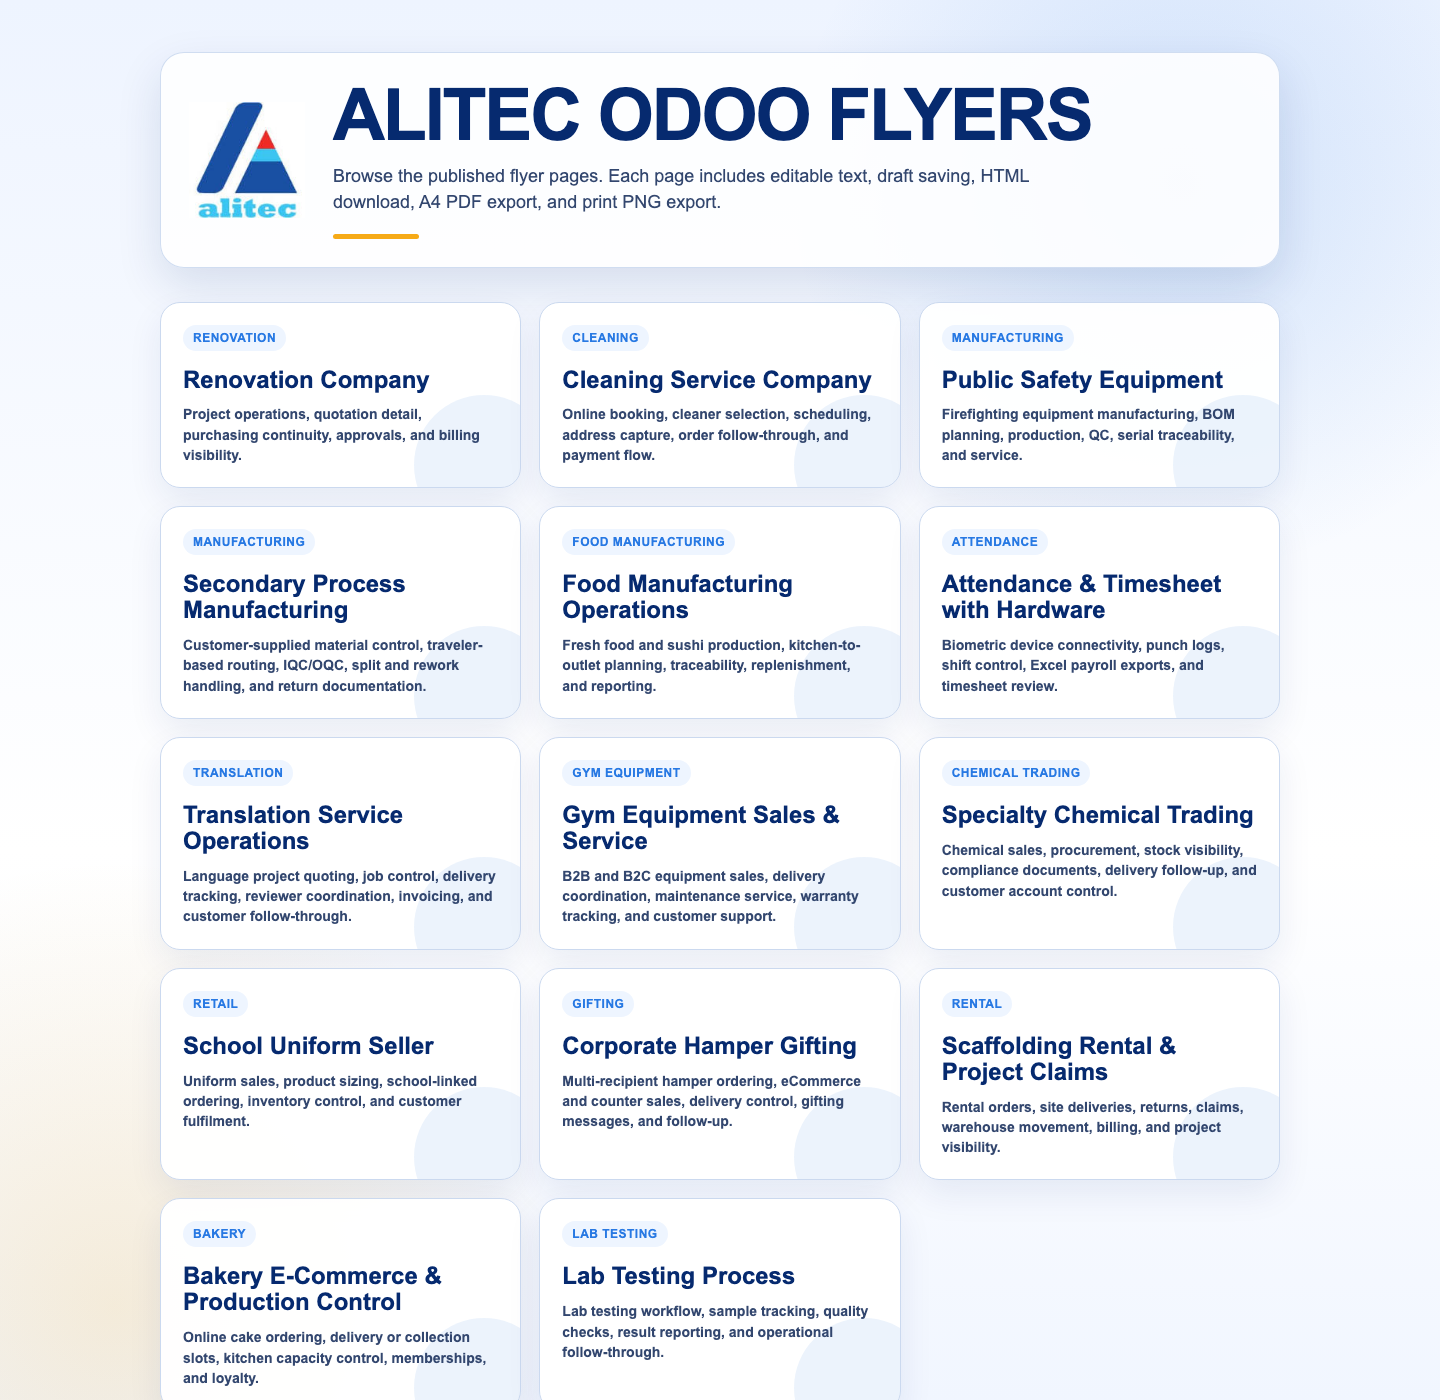
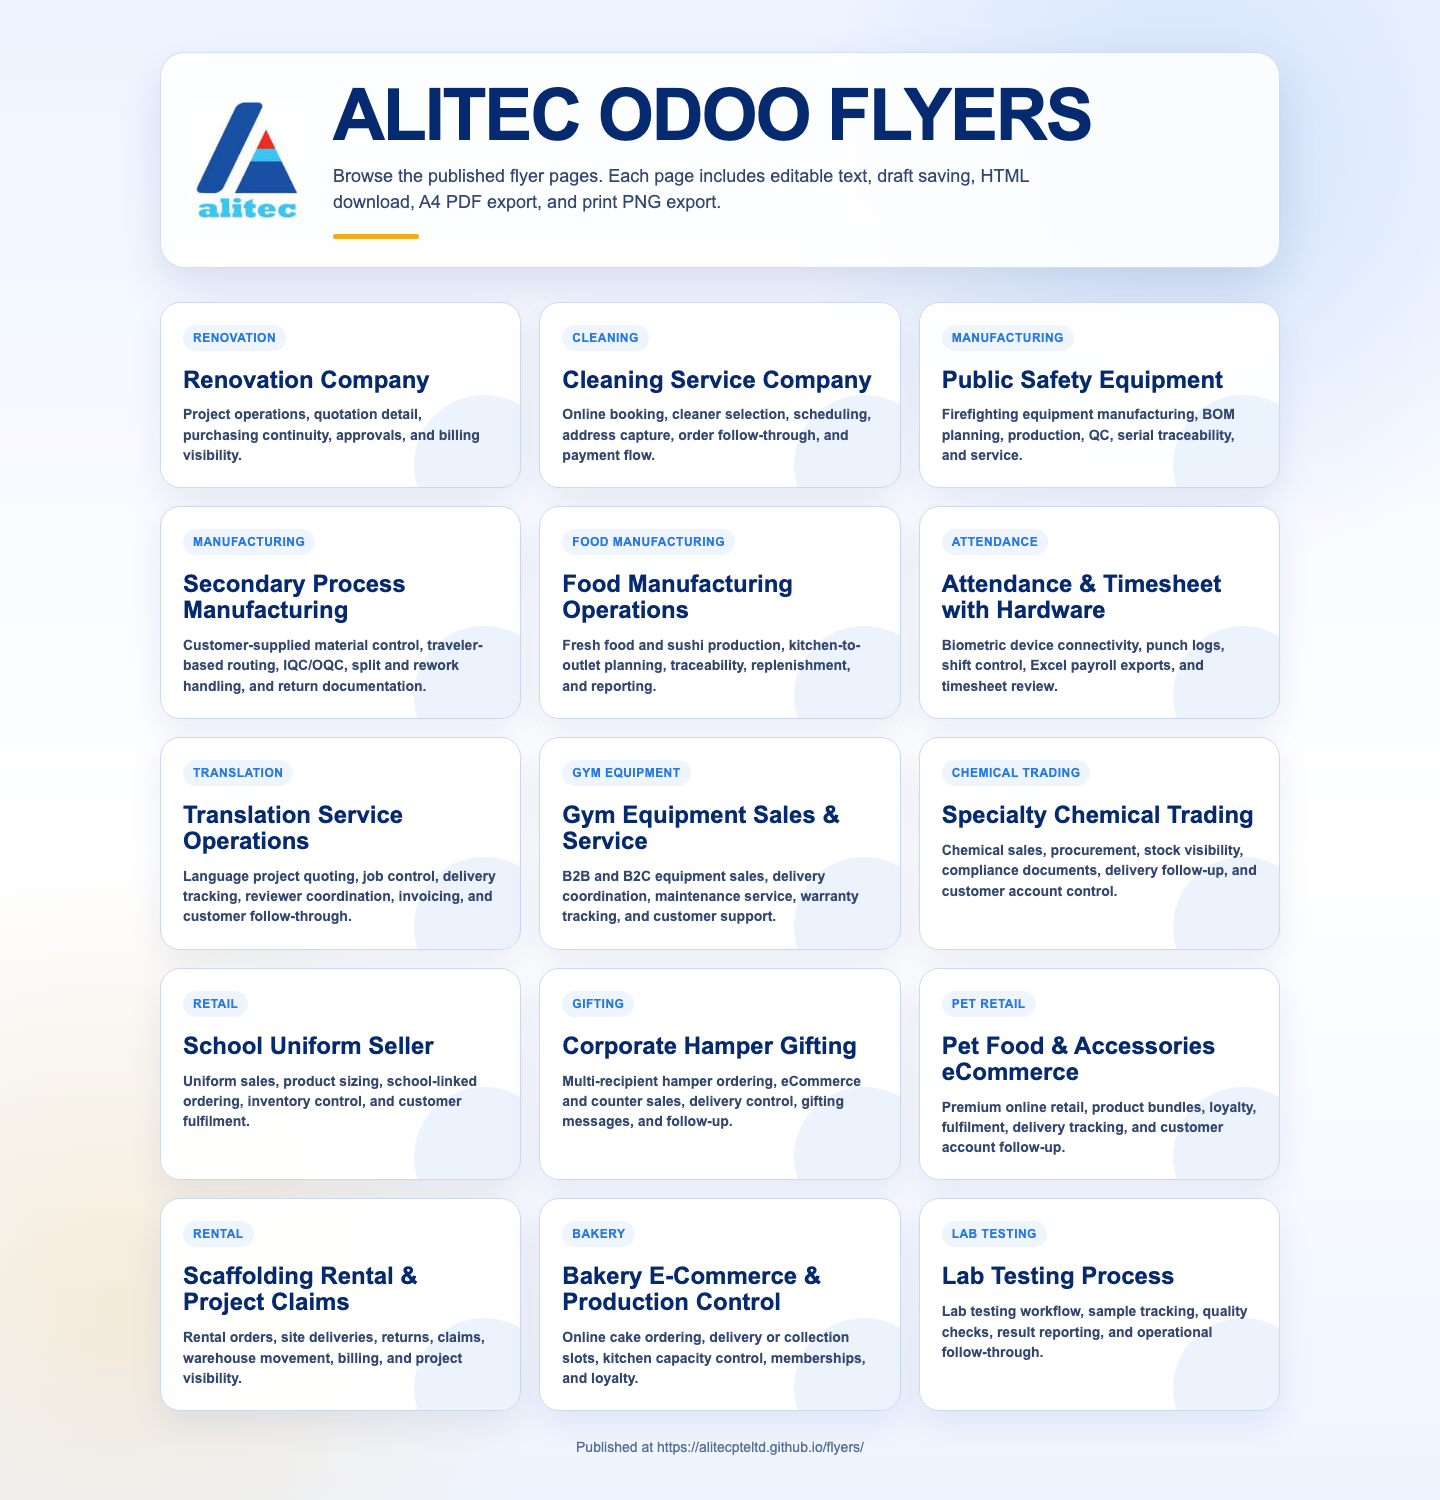
updat

Changed region(s): [[0.0938, 0.0307, 0.9062, 1.0]]

diff --git a/editor/flyer-editor.js b/editor/flyer-editor.js
@@ -105,7 +105,7 @@
       }
 
       .flyer-editor-status {
-        min-width: 78px;
+        min-width: 148px;
         font-size: 12px;
         font-weight: 700;
         color: #d9e6ff;
@@ -1540,7 +1540,7 @@
   function toggleToolbarVisible() {
     setToolbarVisible(!isToolbarVisible);
     if (isToolbarVisible) {
-      updateStatus("Toolbar shown");
+      updateStatus("Toolbar shown · ESC to hide");
     }
   }
 

diff --git a/projects/attendance-timesheet-hardware/index.html b/projects/attendance-timesheet-hardware/index.html
@@ -177,7 +177,7 @@
     }
 
     .intro {
-      width: 520px;
+      width: 720px;
       margin: 28px 0 0;
       color: var(--ink);
       font-size: 17px;
@@ -1277,6 +1277,6 @@
       <div class="contact"><i class="fa-solid fa-location-dot"></i>Malaysia</div>
     </footer>
   </main>
-  <script src="../../editor/flyer-editor.js?v=20260707-10" data-flyer-editor-script data-flyer-version="2026-07-07-v2"></script>
+  <script src="../../editor/flyer-editor.js?v=20260707-11" data-flyer-editor-script data-flyer-version="2026-07-07-v2"></script>
 </body>
 </html>

diff --git a/projects/bakery-ecommerce-operations/index.html b/projects/bakery-ecommerce-operations/index.html
@@ -152,7 +152,7 @@
     }
 
     .intro {
-      width: 446px;
+      width: 720px;
       margin-top: 32px;
       font-size: 17px;
       line-height: 1.45;
@@ -1024,6 +1024,6 @@
       <div class="contact"><i class="fa-solid fa-location-dot"></i>Malaysia</div>
     </footer>
   </main>
-  <script src="../../editor/flyer-editor.js?v=20260707-10" data-flyer-editor-script data-flyer-version="2026-07-07-v1"></script>
+  <script src="../../editor/flyer-editor.js?v=20260707-11" data-flyer-editor-script data-flyer-version="2026-07-07-v1"></script>
 </body>
 </html>

diff --git a/projects/cleantric/index.html b/projects/cleantric/index.html
@@ -144,7 +144,7 @@
     }
 
     .intro {
-      width: 446px;
+      width: 720px;
       margin-top: 32px;
       font-size: 17px;
       line-height: 1.45;
@@ -918,6 +918,6 @@
       <div class="contact"><i class="fa-solid fa-location-dot"></i>Singapore</div>
     </footer>
   </main>
-  <script src="../../editor/flyer-editor.js?v=20260707-10" data-flyer-editor-script></script>
+  <script src="../../editor/flyer-editor.js?v=20260707-11" data-flyer-editor-script></script>
 </body>
 </html>

diff --git a/projects/corporate-hamper-gifting/index.html b/projects/corporate-hamper-gifting/index.html
@@ -169,7 +169,7 @@
     }
 
     .intro {
-      width: 446px;
+      width: 720px;
       margin-top: 16px;
       font-size: 16px;
       line-height: 1.38;
@@ -1050,6 +1050,6 @@
       <div class="contact"><i class="fa-solid fa-location-dot"></i>Malaysia</div>
     </footer>
   </main>
-  <script src="../../editor/flyer-editor.js?v=20260707-10" data-flyer-editor-script data-flyer-version="2026-07-07-v1"></script>
+  <script src="../../editor/flyer-editor.js?v=20260707-11" data-flyer-editor-script data-flyer-version="2026-07-07-v1"></script>
 </body>
 </html>

diff --git a/projects/food-manufacturing-operations/index.html b/projects/food-manufacturing-operations/index.html
@@ -150,7 +150,7 @@
     }
 
     .intro {
-      width: 446px;
+      width: 720px;
       margin-top: 32px;
       font-size: 17px;
       line-height: 1.45;
@@ -904,6 +904,6 @@
       <div class="contact"><i class="fa-solid fa-location-dot"></i>Malaysia</div>
     </footer>
   </main>
-  <script src="../../editor/flyer-editor.js?v=20260707-10" data-flyer-editor-script data-flyer-version="2026-07-07-v1"></script>
+  <script src="../../editor/flyer-editor.js?v=20260707-11" data-flyer-editor-script data-flyer-version="2026-07-07-v1"></script>
 </body>
 </html>

diff --git a/projects/gym-equipment-sales-service/index.html b/projects/gym-equipment-sales-service/index.html
@@ -169,7 +169,7 @@
     }
 
     .intro {
-      width: 446px;
+      width: 720px;
       margin-top: 16px;
       font-size: 16px;
       line-height: 1.38;
@@ -1050,6 +1050,6 @@
       <div class="contact"><i class="fa-solid fa-location-dot"></i>Malaysia</div>
     </footer>
   </main>
-  <script src="../../editor/flyer-editor.js?v=20260707-10" data-flyer-editor-script data-flyer-version="2026-07-07-v1"></script>
+  <script src="../../editor/flyer-editor.js?v=20260707-11" data-flyer-editor-script data-flyer-version="2026-07-07-v1"></script>
 </body>
 </html>

diff --git a/projects/lab-testing-process/index.html b/projects/lab-testing-process/index.html
@@ -144,7 +144,7 @@
     }
 
     .intro {
-      width: 446px;
+      width: 720px;
       margin-top: 32px;
       font-size: 17px;
       line-height: 1.45;
@@ -917,6 +917,6 @@
       <div class="contact"><i class="fa-solid fa-location-dot"></i>Malaysia</div>
     </footer>
   </main>
-  <script src="../../editor/flyer-editor.js?v=20260707-10" data-flyer-editor-script data-flyer-version="2026-07-07-v1"></script>
+  <script src="../../editor/flyer-editor.js?v=20260707-11" data-flyer-editor-script data-flyer-version="2026-07-07-v1"></script>
 </body>
 </html>

diff --git a/projects/pet-food-accessories-ecommerce/index.html b/projects/pet-food-accessories-ecommerce/index.html
@@ -169,7 +169,7 @@
     }
 
     .intro {
-      width: 446px;
+      width: 720px;
       margin-top: 16px;
       font-size: 16px;
       line-height: 1.38;
@@ -1050,6 +1050,6 @@
       <div class="contact"><i class="fa-solid fa-location-dot"></i>Malaysia</div>
     </footer>
   </main>
-  <script src="../../editor/flyer-editor.js?v=20260707-10" data-flyer-editor-script data-flyer-version="2026-07-07-pet-v1"></script>
+  <script src="../../editor/flyer-editor.js?v=20260707-11" data-flyer-editor-script data-flyer-version="2026-07-07-pet-v1"></script>
 </body>
 </html>

diff --git a/projects/positive/index.html b/projects/positive/index.html
@@ -141,7 +141,7 @@
     }
 
     .intro {
-      width: 446px;
+      width: 720px;
       margin-top: 32px;
       font-size: 17px;
       line-height: 1.45;
@@ -915,6 +915,6 @@
       <div class="contact"><i class="fa-solid fa-location-dot"></i>Singapore</div>
     </footer>
   </main>
-  <script src="../../editor/flyer-editor.js?v=20260707-10" data-flyer-editor-script></script>
+  <script src="../../editor/flyer-editor.js?v=20260707-11" data-flyer-editor-script></script>
 </body>
 </html>

diff --git a/projects/public-safety/index.html b/projects/public-safety/index.html
@@ -97,7 +97,7 @@
     .odoo-logo { width: 205px; height: auto; display: block; }
 
     .intro {
-      width: 452px;
+      width: 720px;
       margin-top: 28px;
       font-size: 16.5px;
       line-height: 1.43;
@@ -452,6 +452,6 @@
       <div class="contact"><i class="fa-solid fa-location-dot"></i>Singapore</div>
     </footer>
   </main>
-  <script src="../../editor/flyer-editor.js?v=20260707-10" data-flyer-editor-script></script>
+  <script src="../../editor/flyer-editor.js?v=20260707-11" data-flyer-editor-script></script>
 </body>
 </html>

diff --git a/projects/scaffolding/index.html b/projects/scaffolding/index.html
@@ -147,7 +147,7 @@
     }
 
     .intro {
-      width: 450px;
+      width: 720px;
       margin-top: 34px;
       font-size: 16px;
       line-height: 1.45;
@@ -832,6 +832,6 @@
       <div class="contact"><i class="fa-solid fa-location-dot"></i>Singapore</div>
     </footer>
   </main>
-  <script src="../../editor/flyer-editor.js?v=20260707-10" data-flyer-editor-script data-flyer-version="2026-07-07-v2"></script>
+  <script src="../../editor/flyer-editor.js?v=20260707-11" data-flyer-editor-script data-flyer-version="2026-07-07-v2"></script>
 </body>
 </html>